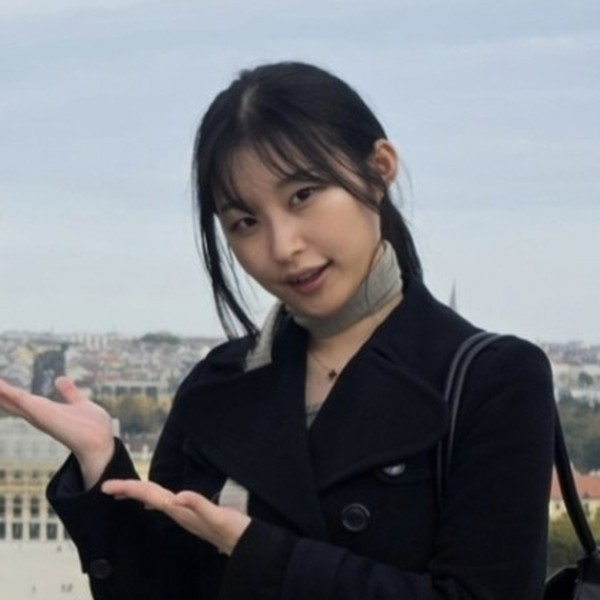
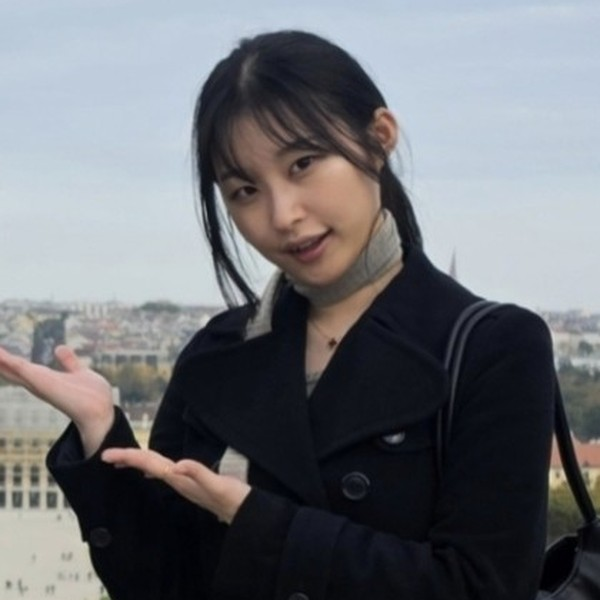
Circular profile photo with white gradient glow ring

diff --git a/index.html b/index.html
@@ -12,7 +12,7 @@
 <meta property="og:url" content="https://trlily.github.io/">
 <meta property="og:title" content="김가연 Gayeon Kim · 연세대학교 의과대학 의학과 · Medical AI">
 <meta property="og:description" content="김가연, 연세대학교 의과대학 의학과 석박사통합과정 · Medical AI, PET/CT image restoration, neuroimaging">
-<meta property="og:image" content="https://trlily.github.io/images/profile.jpg?v=6">
+<meta property="og:image" content="https://trlily.github.io/images/profile.jpg?v=7">
 <meta property="og:locale" content="en_US">
 <meta property="og:locale:alternate" content="ko_KR">
 <script type="application/ld+json">
@@ -22,7 +22,7 @@
   "name": "Gayeon Kim",
   "alternateName": ["김가연", "Kim Gayeon"],
   "url": "https://trlily.github.io/",
-  "image": "https://trlily.github.io/images/profile.jpg?v=6",
+  "image": "https://trlily.github.io/images/profile.jpg?v=7",
   "email": "mailto:dukan98765@gmail.com",
   "jobTitle": "Integrated MS/PhD Student",
   "affiliation": {
@@ -111,8 +111,18 @@ a:focus-visible { outline: 2px solid var(--accent); outline-offset: 3px; border-
 
 /* Identity column */
 .side { position: sticky; top: 40px; align-self: start; display: flex; flex-direction: column; gap: 28px; max-height: calc(100vh - 56px); overflow-y: auto; scrollbar-width: thin; padding-right: 4px; }
-.photo { width: 100%; aspect-ratio: 1 / 1; overflow: hidden; border: 1px solid var(--line); margin-bottom: 20px; }
-.photo img { width: 100%; height: 100%; object-fit: cover; display: block; }
+.photo {
+  position: relative; width: 100%; aspect-ratio: 1 / 1; margin: 6px 0 22px;
+  border-radius: 50%; padding: 6px;
+  background: linear-gradient(145deg, #ffffff 0%, #dbe9fb 22%, #8fbce6 48%, #c6dbef 72%, #ffffff 100%);
+  box-shadow: 0 0 0 1px rgba(255, 255, 255, 0.9), 0 0 22px 4px rgba(255, 255, 255, 0.85), 0 10px 28px rgba(33, 113, 181, 0.22);
+}
+.photo img { width: 100%; height: 100%; object-fit: cover; display: block; border-radius: 50%; border: 3px solid #ffffff; }
+.photo::after {
+  content: ""; position: absolute; inset: 6px; border-radius: 50%; pointer-events: none;
+  background: radial-gradient(circle at 26% 16%, rgba(255, 255, 255, 0.55) 0%, rgba(255, 255, 255, 0.18) 16%, rgba(255, 255, 255, 0) 34%);
+  box-shadow: inset 0 0 18px rgba(255, 255, 255, 0.55);
+}
 .side h1 {
   font-family: var(--font-display);
   font-weight: 700;
@@ -255,7 +265,7 @@ footer { font-size: 0.8rem; color: var(--muted); border-top: 1px solid var(--lin
 
   <aside class="side">
     <div>
-      <div class="photo"><img src="images/profile.jpg?v=6" width="600" height="600" alt="Gayeon Kim" onerror="this.parentElement.style.display='none'"></div>
+      <div class="photo"><img src="images/profile.jpg?v=7" width="600" height="600" alt="Gayeon Kim" onerror="this.parentElement.style.display='none'"></div>
       <h1>Gayeon Kim</h1>
       <div class="scale" aria-hidden="true"></div>
     </div>
